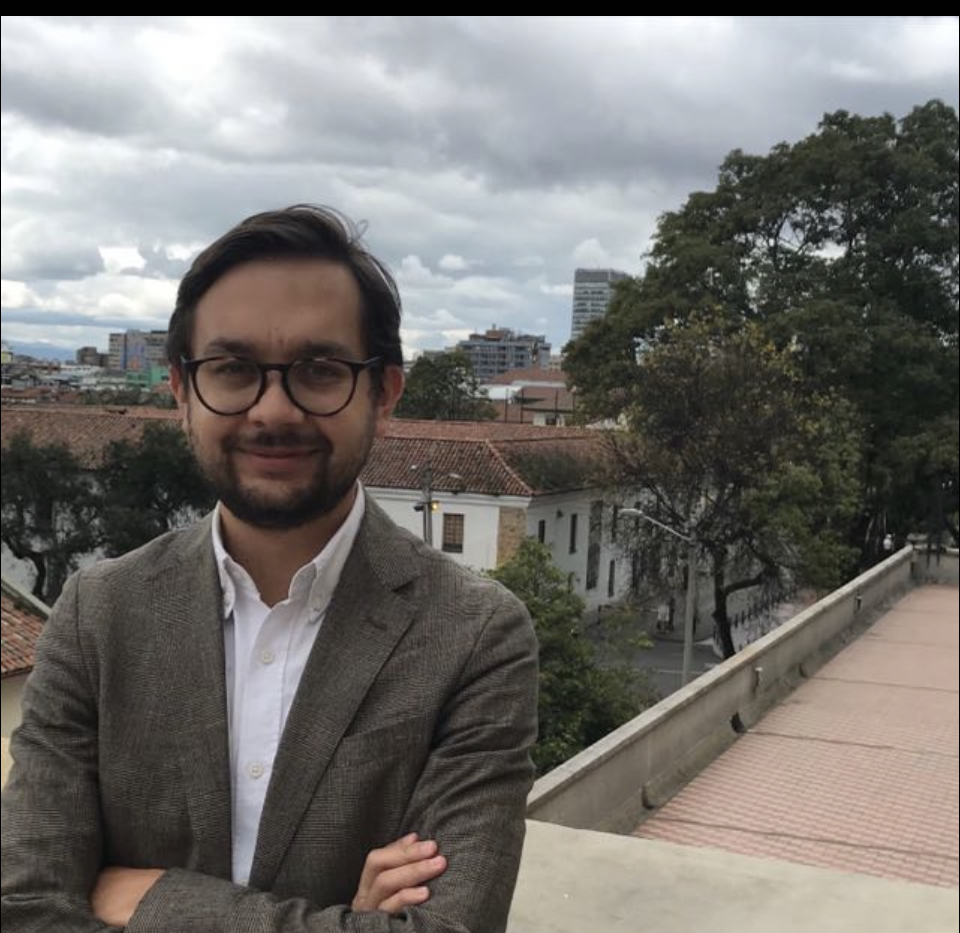
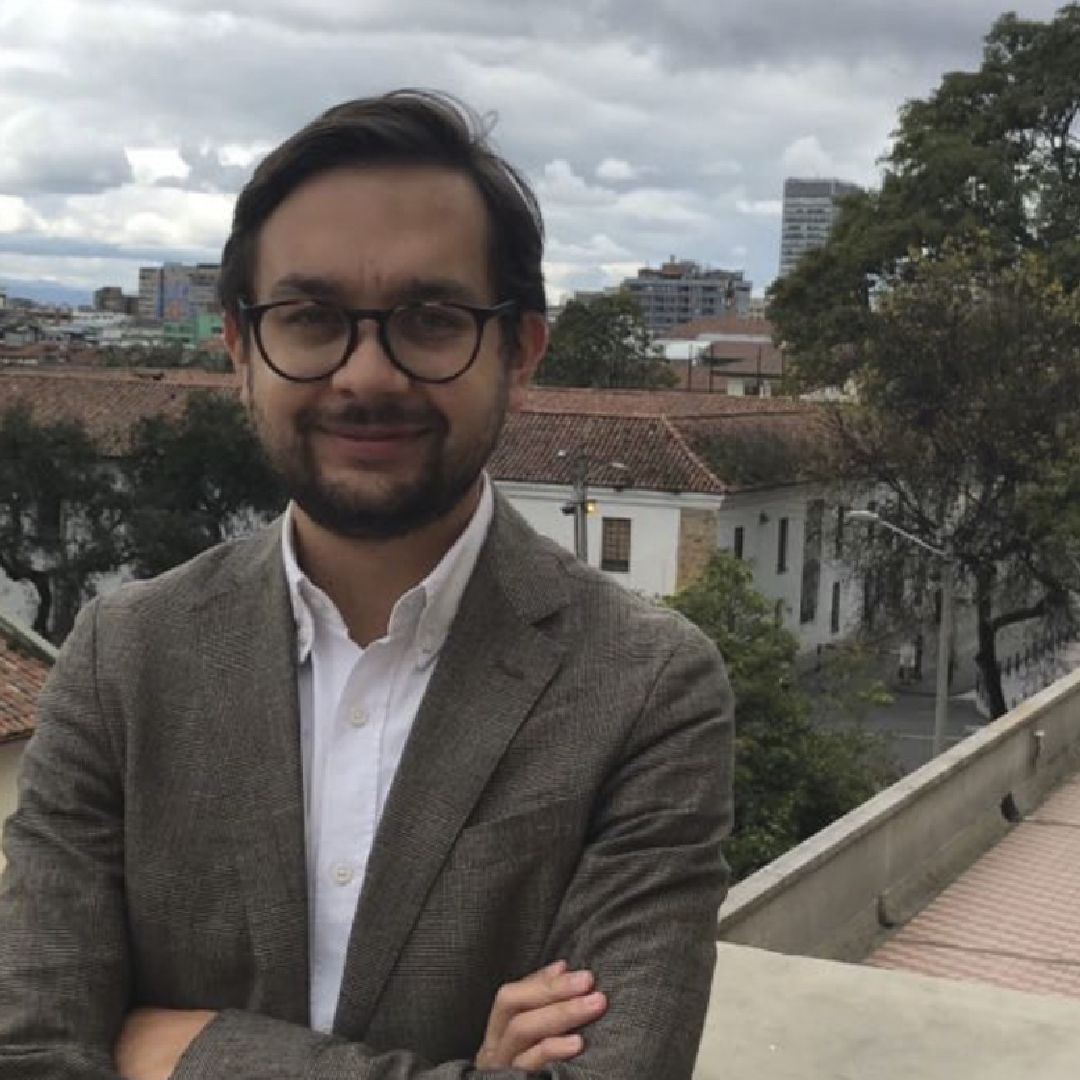
ajuste de las imagenes

diff --git a/index.html b/index.html
@@ -897,7 +897,7 @@
 
 									<!-- Start single speaker -->
 									<div class="mu-single-speakers mu-single-organizer" id="pa02">
-										<img src="assets/images/paula.JPG" alt="speaker img">
+										<img class="mu-mini-organizer" src="assets/images/paula.JPG" alt="speaker img">
 										<div class="mu-single-speakers-info">
 											<h3>Paula Perez</h3>
 											<p id="host-role2">Vice Presidente</p>
@@ -908,7 +908,7 @@
 
 									<!-- Start single speaker -->
 									<div class="mu-single-speakers mu-single-organizer" id="ga03">
-										<img src="assets/images/gabriel.jpg" alt="speaker img">
+										<img class="mu-mini-organizer" src="assets/images/gabriel.jpg" alt="speaker img">
 										<div class="mu-single-speakers-info">
 											<h3>Gabriel Angarita</h3>
 											<p id="host-role3">Comité Ejecutivo (Universidad de Chicago)</p>
@@ -919,7 +919,7 @@
 
 									<!-- Start single speaker -->
 									<div class="mu-single-speakers mu-single-organizer"  id="la04">
-										<img src="assets/images/laura.JPG" alt="speaker img">
+										<img class="mu-mini-organizer" src="assets/images/laura.JPG" alt="speaker img">
 										<div class="mu-single-speakers-info">
 											<h3>Laura Henao </h3>
 											<p id="host-role4">Comité Ejecutivo (Universidad de Chicago)</p>
@@ -929,7 +929,7 @@
 
 									<!-- Start single speaker -->
 									<div class="mu-single-speakers mu-single-organizer" id="ed05">
-										<img src="assets/images/edwin.JPG" alt="speaker img">
+										<img class="mu-mini-organizer" src="assets/images/edwin.jpg" alt="speaker img">
 										<div class="mu-single-speakers-info">
 											<h3>Edwin Pedrozo</h3>
 											<p id="host-role5">Comité Ejecutivo</p>
@@ -939,7 +939,7 @@
 
 									<!-- Start single speaker -->
 									<div class="mu-single-speakers mu-single-organizer" id="da06">
-										<img src="assets/images/daniel.JPG" alt="speaker img">
+										<img class="mu-mini-organizer" src="assets/images/daniel.jpg" alt="speaker img">
 										<div class="mu-single-speakers-info">
 											<h3>Daniel Martinez</h3>
 											<p id="host-role6">Comité Ejecutivo</p>
@@ -949,7 +949,7 @@
 
 									<!-- Start single speaker -->
 									<div class="mu-single-speakers mu-single-organizer" id="ja07">
-										<img src="assets/images/juan.png" alt="speaker img">
+										<img class="mu-mini-organizer" src="assets/images/juan.jpg" alt="speaker img">
 										<div class="mu-single-speakers-info">
 											<h3>Juan Jose Muñoz</h3>
 											<p id="host-role7">Comité Ejecutivo</p>

diff --git a/assets/js/constants.js b/assets/js/constants.js
@@ -35,7 +35,7 @@ export const organizersEn = [
   {
     id: "pa02",
     name: "Paula Perez",
-    pic: "paula.JPG",
+    pic: "paula.jpg",
     role: "Vice-president",
     bioSumary: ``,
     esBioSumary: ``,
@@ -80,7 +80,7 @@ export const organizersEn = [
   },{
     id: "la04",
     name: "Laura Henao",
-    pic: "laura.JPG",
+    pic: "laura.jpg",
     role: "Miembro del Comité Ejecutivo",
     bioSumary: ``,
     bio: `Former Senior Project Officer of the United States Institute of Peace for the Citizen 
@@ -97,7 +97,7 @@ export const organizersEn = [
   },{
     id: "ed05",
     name: "Edwin Pedrozo",
-    pic: "edwin.JPG",
+    pic: "edwin.jpg",
     role: "Miembro del Comité Ejecutivo",
     bioSumary: `Research Scientist at the Massachusetts Institute of Technology 
     (MIT) and MIT-Harvard Center for Ultracold Atoms (CUA). `,
@@ -117,7 +117,7 @@ export const organizersEn = [
   },{
     id: "da06",
     name: "Daniel Martinez",
-    pic: "daniel.JPG",
+    pic: "daniel.jpg",
     role: "Miembro del Comité Ejecutivo",
     bioSumary: ``,
     bio: `My name is Daniel Andres Martinez Perez born and raised in the city of Medellin, my father 
@@ -133,7 +133,7 @@ export const organizersEn = [
   {
     id: "ja07",
     name: "Juan Jose Muños",
-    pic: "juan.png",
+    pic: "juan.jpg",
     role: "Miembro del Comité Ejecutivo",
     bioSumary: ``,
     bio: `My name is Juan José Muñoz Arango, I am 19 years old and I am from the city of Cali. 

diff --git a/assets/js/es.js b/assets/js/es.js
@@ -55,7 +55,7 @@ export const esText = {
     role3: "Comité Ejecutivo (Universidad de Chicago)",
     role4: "Comité Ejecutivo (Universidad de Chicago)",
     role5: "Comité Ejecutivo (Instituto de Tecnología de Massachusetts)",
-    role6: "Comité Ejecutivo (Oficina Internacional de Florida)",
+    role6: "Comité Ejecutivo (Unversidad Internacional de Florida)",
     role7: "Comité Ejecutivo (Universidad del Noroeste)"
   },
   donations: {

diff --git a/assets/js/en.js b/assets/js/en.js
@@ -54,7 +54,7 @@ export const enText = {
     role3: "Executive Committee (University of Chicago)",
     role4: "Executive Committee (University of Chicago)",
     role5: "Executive Committee (Massachusetts Institute of Technology)",
-    role6: "Executive Committee (FIU)",
+    role6: "Executive Committee (FLorida International University)",
     role7: "Executive Committee (Northeastern University)"
   },
   donations: {

diff --git a/style.css b/style.css
@@ -610,7 +610,7 @@ button:focus {
 }
 
 .mu-mini-organizer {
-	object-fit: cover;
+	object-fit: contain;
 }
 .mu-video-iframe-display {
 	display: block;
